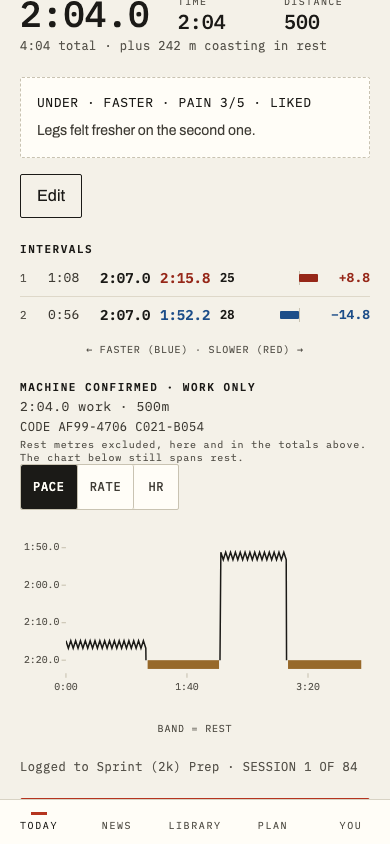
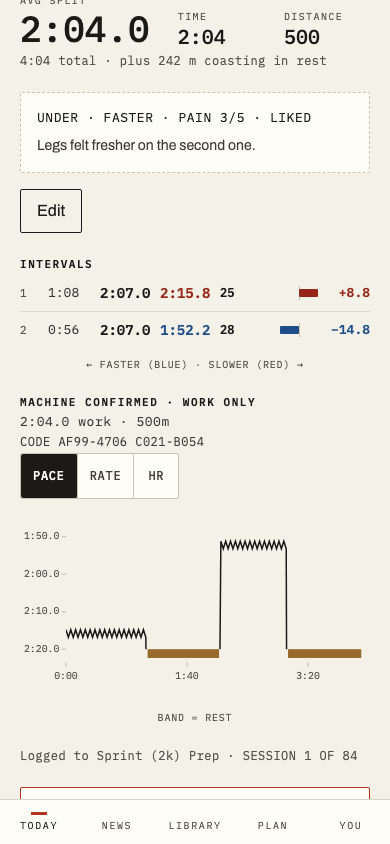
The log-detail capture shows its own feature again (#207)
* fix(e2e): the log-detail fixture stores RC-1's rest pair, so the capture shows its own feature again

The screenshots suite has been red on main since RC-5's fix-round-2 finding
C1 stopped a TIER A row deriving rest from step sums. For tier A the
row-level restSeconds/restMeters pair is the only rung left, and this
fixture never seeded it, so the TOTAL line degraded to a bare '2:04 total'
with no coasting clause.

The committed PNG was never wrong. The fixture drifted out of realism: a
real finished monitor session always stores the pair (computeWorkRestSums),
so a row without it is not a smaller row, it is an impossible one.

Reported as 'pre-existing, unrelated' in four consecutive task reports --
correct each time, and exactly how it survived. Its sibling under the same
label turned out to be a stale version pin (#205).

Probe proven: removing restSeconds reproduces 'Received: 2:04 total'.
Capture also picks up a caption correction already in source -- the old
wording claimed rest was excluded from totals the total line includes.

Claude-Session: https://claude.ai/code/session_01UEXqdgDid4Qjd8D5uoRZ3H

* copy: the machine-confirmed caption is one short line

Two sentences restating the block's own WORK ONLY title and then correcting
themselves. The title already says work-only; the only thing left to say is
where rest does appear.

Fourth correction to this caption -- each earlier one bought accuracy with
another clause.
[…]

diff --git a/app/e2e/screenshots.spec.ts b/app/e2e/screenshots.spec.ts
@@ -2024,6 +2024,18 @@ async function postLog(
       avgPaceSecondsPer500m?: number;
       verificationBytes: number[];
     } | null;
+    // RC-1's stored work/rest pair, and the reason this helper needs it:
+    // a TIER A row (both `machineWork*` set) is handed an EMPTY `stepSums`
+    // on purpose (`storedSummary.ts`'s `buildHeroes`, fix-round-2 finding
+    // C1 — a terminated row can be tier A while this pair is null, and its
+    // abandoned final interval would poison a derived sum). So for tier A,
+    // `buildStoredRest`'s row-level branch is the ONLY rung that can fire:
+    // without this pair a tier-A row's TOTAL line silently degrades to
+    // work-only, with no coasting clause. A real FINISHED monitor session
+    // always stores it (`completeMonitorRun`'s `computeWorkRestSums`), so
+    // a fixture omitting it is not a smaller row — it is an impossible one.
+    restSeconds?: number | null;
+    restMeters?: number | null;
   },
 ): Promise<void> {
   const result = await page.evaluate(async (b) => {
@@ -2282,6 +2294,20 @@ test("log-detail", async ({ page }) => {
     avgSplitSeconds: 124.0,
     timeSeconds: 244,
     distanceMeters: 742,
+    // RC-1's stored work/rest pair — see the helper's own comment on why a
+    // TIER A row cannot derive these. 60(r1)+60(r2) = 120 s and 147+95 =
+    // 242 m, the same two rests the steps below already describe, so the
+    // TOTAL line's `124 + 120 = 244 s = 4:04` is arithmetic a reader can
+    // check against this fixture rather than a number to take on trust.
+    //
+    // WITHOUT THIS PAIR THIS CAPTURE STOPPED SHOWING ITS OWN FEATURE
+    // (2026-08-27): the row rendered a bare `2:04 total`, the assertion
+    // below went red, and the failure was reported as "pre-existing,
+    // unrelated" in four consecutive task reports — correctly each time,
+    // and that is exactly how it survived. The committed PNG was never
+    // wrong; the FIXTURE drifted out of realism (recurring failure #3).
+    restSeconds: 120,
+    restMeters: 242,
     advancesPlan: true,
     steps: [
       {
@@ -2402,20 +2428,14 @@ test("log-detail", async ({ page }) => {
   ).toBeVisible();
   await expect(page.getByText("2:04.0 work · 500m")).toBeVisible();
   await expect(page.getByText("CODE AF99-4706 C021-B054")).toBeVisible();
-  // RC-5 (hero-truth spec) §3, Task 3: the caption's THIRD correction
-  // (Task 3 fix round 4, PM gate finding 6, copy-only — no re-shoot).
-  // "Everything else on this screen includes rest" went false the moment
-  // the heroes became work-only (this task). The second wording still
-  // argued with the screen: the TOTAL line ("4:04 total · plus 242 m
-  // coasting in rest") sits four lines above this caption and IS a
-  // rest-inclusive total. New copy separates "the three numbers above"
-  // (work-only) from "the total line and the chart below" (both
-  // rest-inclusive).
-  await expect(
-    page.getByText(
-      "Rest metres excluded from the three numbers above. The total line and the chart below both span rest.",
-    ),
-  ).toBeVisible();
+  // THE CAPTION IS GONE (James, 2026-08-27: "just no prose"). Asserted as
+  // an ABSENCE so the committed capture keeps showing a three-line block:
+  // this is the PR's visual record, and a re-added sentence would
+  // otherwise only be caught by a human noticing it in the PNG. The block
+  // was rewritten four times before someone read it and saw every version
+  // was redundant — the title says WORK ONLY, and the TOTAL line four
+  // lines up names its own rest outright.
+  await expect(page.locator(".log-machine-confirmed-caption")).toHaveCount(0);
 
   // Dedicated capture: the trace-chart scroll below moves the viewport
   // far enough down that the block (which sits ABOVE the chart) can

diff --git a/app/src/log/FromTheLog.test.tsx b/app/src/log/FromTheLog.test.tsx
@@ -1221,23 +1221,16 @@ describe("FromTheLog — the MACHINE CONFIRMED · WORK ONLY block", () => {
     expect(screen.getByText("MACHINE CONFIRMED · WORK ONLY")).toBeVisible();
     expect(screen.getByText("2:04.0 work · 500m")).toBeVisible();
     expect(screen.getByText(WALK_VERIFICATION_CODE)).toBeVisible();
-    // RC-5 (hero-truth spec) §3, Task 3: the caption's SECOND correction.
-    // The PM-gate wording above ("Everything else on this screen includes
-    // rest") went false the moment this task made the heroes work-only —
-    // the totals ABOVE the block no longer include rest either. THIRD
-    // correction (Task 3 fix round 4, PM gate finding 6): the second
-    // wording still argued with the screen — the TOTAL line ("4:04 total
-    // · plus 242 m coasting in rest") sits four lines above this caption
-    // and is the only thing on screen actually called a total, and it
-    // DOES include rest. New copy separates "the three numbers above"
-    // (work-only) from "the total line and the chart below" (both
-    // rest-inclusive) instead of implying every number above is
-    // rest-free.
+    // THE CAPTION IS GONE (James, 2026-08-27: "just no prose"), and this
+    // asserts its ABSENCE rather than silently dropping the check — the
+    // block is meant to be three lines now, not three lines and whatever
+    // a later change re-adds. It was rewritten four times (each correction
+    // buying accuracy with another clause) before the fourth read of it
+    // noticed every version was redundant: the title says WORK ONLY, and
+    // the TOTAL line on the same screen names its own rest outright.
     expect(
-      screen.getByText(
-        "Rest metres excluded from the three numbers above. The total line and the chart below both span rest.",
-      ),
-    ).toBeVisible();
+      container.querySelector(".log-machine-confirmed-caption"),
+    ).toBeNull();
 
     // Placement: below the interval table (§3's own placement rule).
     const block = container.querySelector(".log-machine-confirmed");

diff --git a/app/src/log/FromTheLog.tsx b/app/src/log/FromTheLog.tsx
@@ -84,10 +84,13 @@ function MachineConfirmedBlock({ row }: { row: StoredLog }) {
       {code !== undefined && (
         <p className="log-machine-confirmed-code">CODE {code}</p>
       )}
-      <p className="log-machine-confirmed-caption">
-        Rest metres excluded from the three numbers above. The total line and
-        the chart below both span rest.
-      </p>
+      {/* NO CAPTION (James, 2026-08-27: "just no prose"). This block used to
+          end with a sentence about where rest metres appear. It was rewritten
+          four times, each correction buying accuracy with another clause, and
+          every version was redundant: the title above says WORK ONLY, and the
+          TOTAL line on the same screen names its own rest outright ("4:04
+          total · plus 242 m coasting in rest"). A caption explaining a line
+          that already explains itself is prose, not information. */}
     </div>
   );
 }

diff --git a/app/src/index.css b/app/src/index.css
@@ -2509,14 +2509,6 @@ button.back-link:disabled,
   color: var(--ink-2);
 }
 
-.log-machine-confirmed-caption {
-  margin: 0;
-  font-family: var(--font-mono);
-  font-size: 10px;
-  letter-spacing: 0.08em;
-  color: var(--ink-3);
-}
-
 /* Log-delete spec (2026-08-18), §1: the staged destructive confirm, last
    in the view, below `.log-plan-footer`. `.button-l4` (index.css's "4 ·
    destructive" level, own doc comment names "Delete workout, Discard at
